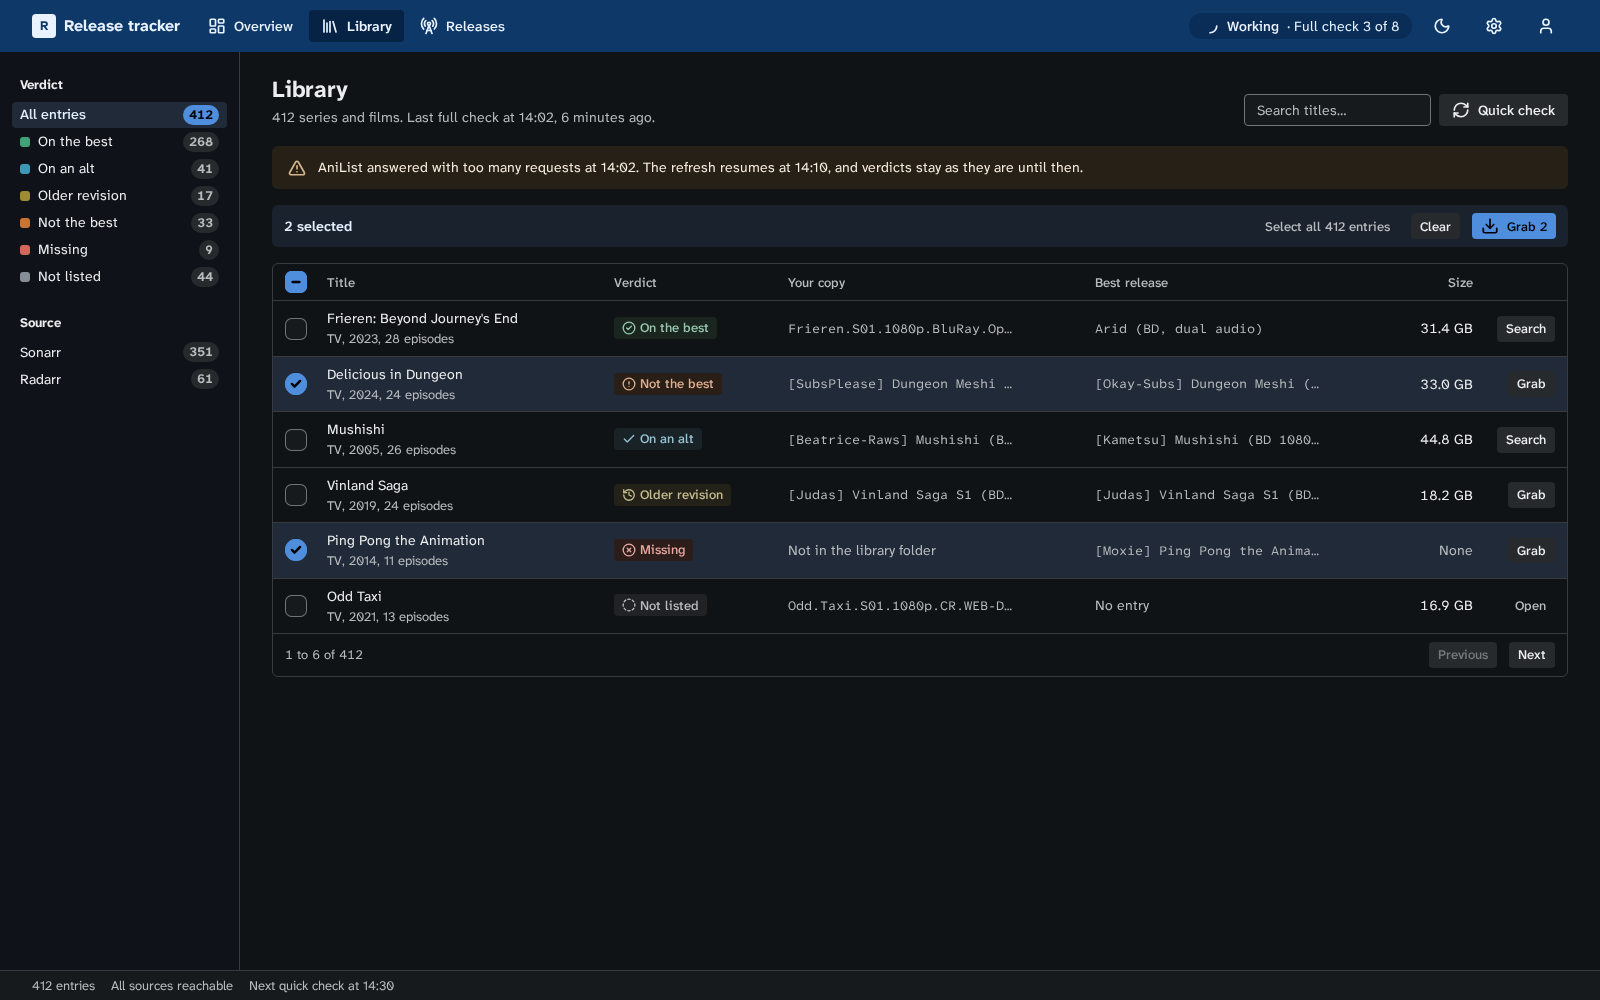
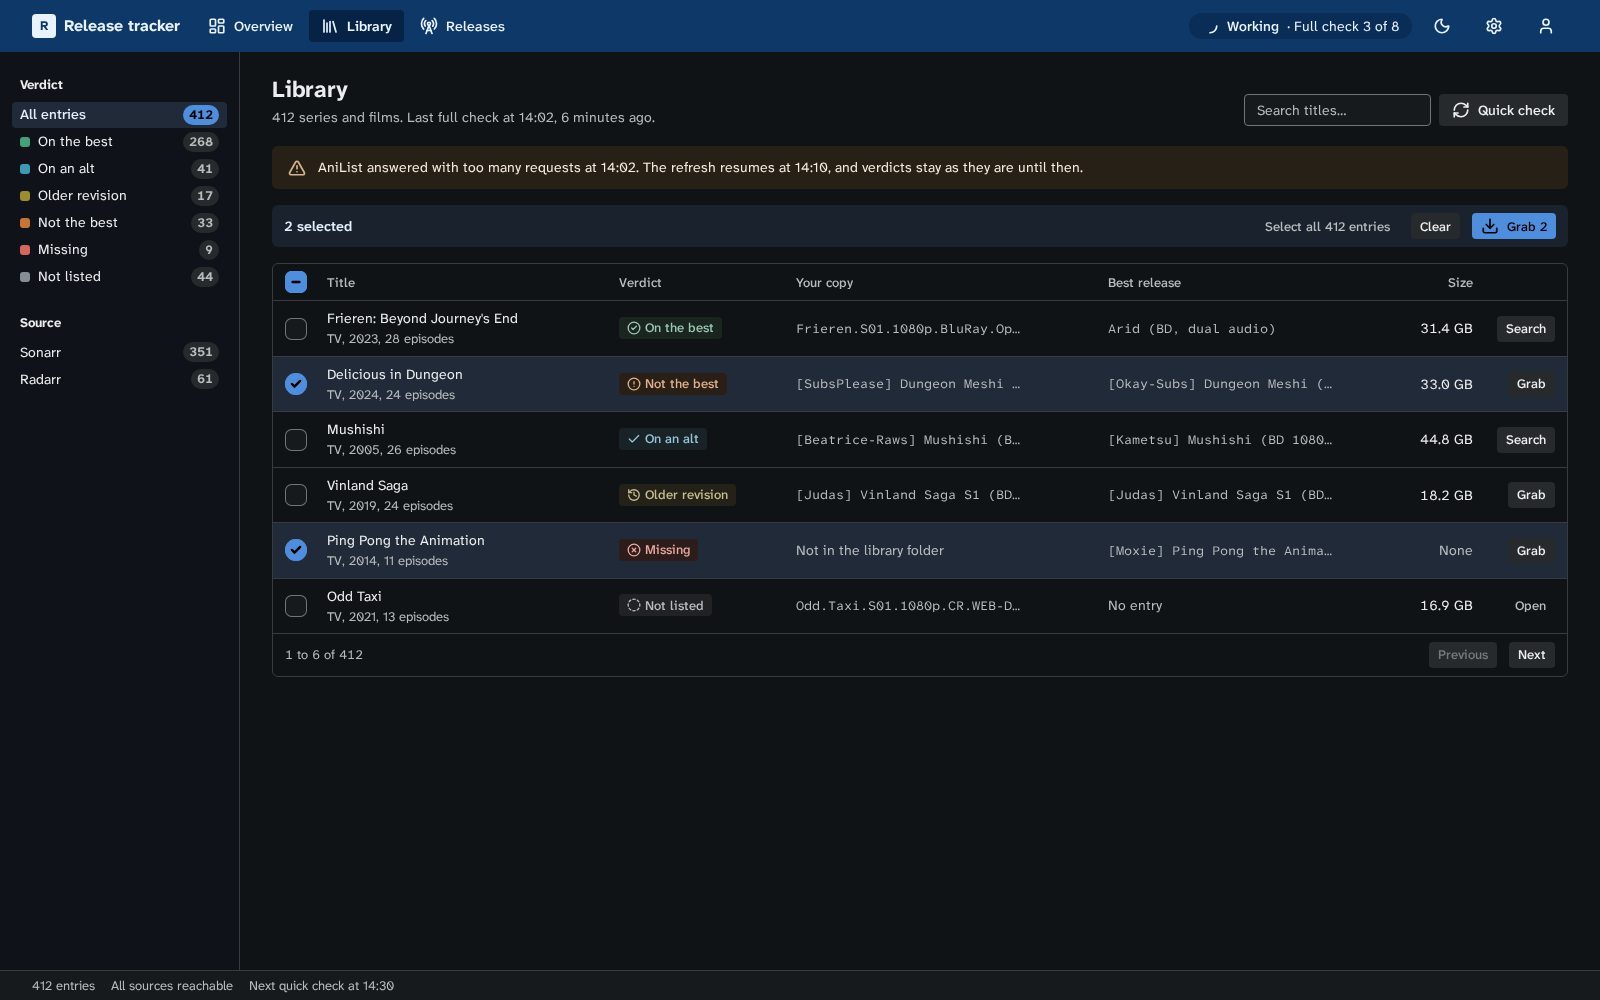
fix(table): hug number columns, centre cells and keep values whole
A number column spread over the table's leftover width, so a leading slot or rank column left a wide blank and the numbers drifted from their headers. A data-col="num" column and a ranked-bars column now take 1% like the actions column, hugging their widest cell, and the text column takes the rest. A <time> in a cell stays on one line.

A markdown table set its cells at the top, so a one-line cell sat high beside a cell of two lines, and a short value broke from its unit ("1.4" over "GB") or at a date's hyphen. Its cells now sit in the middle of the row, and the renderer marks a cell under 24 characters data-cp-line, which the prose stylesheet keeps on one line while the region scrolls.

Checked: new browser tests that a number column is no wider than its widest cell plus padding, that one-line cells centre on their row within 1px and a size and a date keep one line, in a .cp-table and in a prose table, and the render test for data-cp-line, in chromium, firefox and webkit (3930 passed); system:screens recaptured the three screens whose tables changed.

diff --git a/src/system/system-css.test.ts b/src/system/system-css.test.ts
@@ -5380,6 +5380,49 @@ describe("css/system.css data tables", () => {
     );
   });
 
+  it("hugs a number column and a bar column to their widest cell, the text column taking the rest", () => {
+    theme("light");
+    const el = build(
+      '<table class="cp-table" style="inline-size: 800px"><thead><tr><th data-col="num">Slot</th><th>Name</th><th data-bar>Sent</th><th data-col="num">Size</th></tr></thead>' +
+        '<tbody><tr><td data-col="num">1</td><td>On the best</td><td data-bar><data value="9">9</data></td><td data-col="num">33.0 GB</td></tr>' +
+        '<tr><td data-col="num">12</td><td>Missing</td><td data-bar><data value="3">3</data></td><td data-col="num">1.4 GB</td></tr></tbody></table>',
+    );
+    const head = [...el.querySelectorAll("thead th")] as HTMLElement[];
+    for (const i of [0, 2, 3]) {
+      const th = head[i] as HTMLElement;
+      const cs = getComputedStyle(th);
+      const pad = parseFloat(cs.paddingInlineStart) + parseFloat(cs.paddingInlineEnd);
+      const widest = Math.max(
+        ...[...el.querySelectorAll(`tr > :nth-child(${String(i + 1)})`)].map((c) => {
+          const words = document.createRange();
+          words.selectNodeContents(c);
+          return words.getBoundingClientRect().width;
+        }),
+      );
+      expect(th.getBoundingClientRect().width).toBeLessThanOrEqual(widest + pad + 1);
+    }
+    expect((head[1] as HTMLElement).getBoundingClientRect().width).toBeGreaterThan(500);
+  });
+
+  it("centres a one-line cell in a two-line row, and never breaks a number or a date", () => {
+    theme("light");
+    const el = build(
+      '<table class="cp-table" style="inline-size: 200px"><tbody><tr><td><div class="cp-cell-stack">Frieren<span class="cp-meta">TV, 2023</span></div></td>' +
+        '<td data-col="num">1.4 GB</td><td><time datetime="2023-10-20">2023-10-20</time></td></tr></tbody></table>',
+    );
+    const [, size, added] = [...el.querySelectorAll("td")] as HTMLElement[];
+    const row = (el.querySelector("tr") as Element).getBoundingClientRect();
+    for (const cell of [size, added]) {
+      const words = document.createRange();
+      words.selectNodeContents(cell as HTMLElement);
+      expect(new Set([...words.getClientRects()].map((r) => Math.round(r.bottom))).size).toBe(1);
+      const box = words.getBoundingClientRect();
+      expect(Math.abs(box.top + box.height / 2 - (row.top + row.height / 2))).toBeLessThanOrEqual(
+        1,
+      );
+    }
+  });
+
   it("insets a title cell's 2:3 cover 6px from its row's edges, in a cell or a row's header", () => {
     theme("light");
     root.dataset["pointer"] = "fine";

diff --git a/src/content/prose/prose.test.ts b/src/content/prose/prose.test.ts
@@ -300,6 +300,31 @@ describe(".cp-table-scroll", () => {
     expect(width(cells[1])).toBeLessThan(6 * em);
   });
 
+  it("centres a one-line cell in a row another cell makes taller, and keeps a value with its unit", async () => {
+    const md =
+      "| Release | Size | Added | Notes |\n|:--|--:|:--|:--|\n" +
+      "| Frieren S01E04 | 1.4 GB | 2023-10-20 | a note long enough to wrap onto a second line here |\n";
+    const el = prose(md, 332);
+    await frame();
+    const [release, size, added, notes] = [...el.querySelectorAll("tbody td")] as HTMLElement[];
+    const line = (c: HTMLElement | undefined) => {
+      const words = document.createRange();
+      words.selectNodeContents(c as HTMLElement);
+      return new Set([...words.getClientRects()].map((r) => Math.round(r.bottom))).size;
+    };
+    expect(line(notes)).toBeGreaterThan(1);
+    const row = (notes as HTMLElement).getBoundingClientRect();
+    for (const cell of [release, size, added]) {
+      expect(line(cell)).toBe(1);
+      const words = document.createRange();
+      words.selectNodeContents(cell as HTMLElement);
+      const box = words.getBoundingClientRect();
+      expect(Math.abs(box.top + box.height / 2 - (row.top + row.height / 2))).toBeLessThanOrEqual(
+        1,
+      );
+    }
+  });
+
   it("is as wide as a table that fits", () => {
     const el = prose("| a | b |\n| --- | --- |\n| 1 | 2 |\n", 480);
     const region = q(el, ".cp-table-scroll");

diff --git a/css/system.css b/css/system.css
@@ -5343,9 +5343,21 @@ th[aria-sort="descending"] > .cp-sort::after {
   background: var(--cp-surface-raised);
 }
 
+/* A number column, and a bar column (ranked-bars), hugs its widest cell, as
+ * the actions column does, so the text columns take the table's leftover
+ * width. A number or a date never breaks from its unit or at its hyphens. */
 .cp-table [data-col="num"] {
+  inline-size: 1%;
   text-align: end;
   font-variant-numeric: tabular-nums;
+  white-space: nowrap;
+}
+
+.cp-table [data-bar] {
+  inline-size: 1%;
+}
+
+.cp-table :is(td, th) time {
   white-space: nowrap;
 }
 
@@ -5726,7 +5738,7 @@ th[aria-sort="descending"] > .cp-sort::after {
   padding: var(--cp-space-2) var(--cp-space-3);
   border-block-end: var(--cp-line-w) solid var(--cp-line);
   text-align: start;
-  vertical-align: top;
+  vertical-align: middle;
 }
 
 .cp-prose :where(th) {
@@ -5743,6 +5755,12 @@ th[aria-sort="descending"] > .cp-sort::after {
  * wider than its box sits at its min-content, a word a line. */
 .cp-prose :where(td[data-cp-wrap]) {
   min-inline-size: 12em;
+}
+
+/* A short cell, such as a size or a date, never breaks from its unit or at
+ * its hyphens; the region scrolls instead. */
+.cp-prose :where(td[data-cp-line]) {
+  white-space: nowrap;
 }
 
 /* anywhere counts every character toward a cell's min-content, which would

diff --git a/src/content/markdown/render.test.ts b/src/content/markdown/render.test.ts
@@ -81,12 +81,13 @@ describe("the element vocabulary", () => {
     expect(el.querySelector("li")?.textContent).toBe(" done");
   });
 
-  it("marks a cell of running text data-cp-wrap and leaves short cells alone", () => {
+  it("marks a cell of running text data-cp-wrap, a short one data-cp-line, a long token neither", () => {
     const el = render(
-      "| a | b | c |\n|-|-|-|\n| x | a note long enough to wrap | a-long-token-with-no-space-in-it |",
+      "| a | b | c |\n|-|-|-|\n| 1.4 GB | a note long enough to wrap | a-long-token-with-no-space-in-it |",
     );
     const cells = [...el.querySelectorAll("td")];
     expect(cells.map((c) => c.hasAttribute("data-cp-wrap"))).toEqual([false, true, false]);
+    expect(cells.map((c) => c.hasAttribute("data-cp-line"))).toEqual([true, false, false]);
   });
 
   it("puts a table in its region, header cells in thead, alignment as data-align", () => {

diff --git a/src/content/markdown/render.ts b/src/content/markdown/render.ts
@@ -174,10 +174,14 @@ function fitMarkers(ol: Element): void {
 const PROSE_CELL = 24;
 
 /** Marks a cell of running text `data-cp-wrap`, which `.cp-prose` keeps at
- *  a readable width once the table is wider than its box and scrolls. */
+ *  a readable width once the table is wider than its box and scrolls, and a
+ *  short one, such as a size or a date, `data-cp-line`, which it keeps on
+ *  one line. */
 function markProse(cell: Element): void {
   const text = cell.textContent.trim();
-  if (text.length >= PROSE_CELL && /\s/.test(text)) {
+  if (text.length < PROSE_CELL) {
+    cell.setAttribute("data-cp-line", "");
+  } else if (/\s/.test(text)) {
     cell.setAttribute("data-cp-wrap", "");
   }
 }

diff --git a/src/content/prose/prose.css b/src/content/prose/prose.css
@@ -193,7 +193,7 @@
   padding: var(--cp-space-2) var(--cp-space-3);
   border-block-end: var(--cp-line-w) solid var(--cp-line);
   text-align: start;
-  vertical-align: top;
+  vertical-align: middle;
 }
 
 .cp-prose :where(th) {
@@ -210,6 +210,12 @@
  * wider than its box sits at its min-content, a word a line. */
 .cp-prose :where(td[data-cp-wrap]) {
   min-inline-size: 12em;
+}
+
+/* A short cell, such as a size or a date, never breaks from its unit or at
+ * its hyphens; the region scrolls instead. */
+.cp-prose :where(td[data-cp-line]) {
+  white-space: nowrap;
 }
 
 /* anywhere counts every character toward a cell's min-content, which would

diff --git a/src/data/table/table.css b/src/data/table/table.css
@@ -133,9 +133,21 @@ th[aria-sort="descending"] > .cp-sort::after {
   background: var(--cp-surface-raised);
 }
 
+/* A number column, and a bar column (ranked-bars), hugs its widest cell, as
+ * the actions column does, so the text columns take the table's leftover
+ * width. A number or a date never breaks from its unit or at its hyphens. */
 .cp-table [data-col="num"] {
+  inline-size: 1%;
   text-align: end;
   font-variant-numeric: tabular-nums;
+  white-space: nowrap;
+}
+
+.cp-table [data-bar] {
+  inline-size: 1%;
+}
+
+.cp-table :is(td, th) time {
   white-space: nowrap;
 }
 

diff --git a/docs/design-components.md b/docs/design-components.md
@@ -48,7 +48,7 @@ This page lists the classes in `@cplieger/ui/css/system`. [Design language](desi
 | `.cp-prose` | text someone else wrote, such as an agent's answer, as [markdown](content/markdown.md) renders it: paragraphs, headings at any level, lists and task boxes, blockquotes, rules, inline code that breaks anywhere in a long path, tables and code blocks, and an `a` without `href` as body text |
 | `.cp-table-scroll` | a box that scrolls a wide table inside itself, outlined, as wide as its table up to the box |
 | `[data-token]`, `.cp-syntax` | a highlighted token in the `--cp-syntax-*` colours inside `.cp`, `.cp-code`, `.cp-prose` or a `.cp-syntax` host such as a file view, as [highlight](content/highlight.md) writes it |
-| `.cp-table` | a data table, with `data-col="select"`, `"num"` or `"actions"` and `data-priority`, its `<caption>` small and muted at its start. A row's header, a `<th scope="row">` in the body, reads as one of the row's cells, a link in a cell holds its glyph beside its words, and the row a keyboard is in takes the hover fill. A body row with `data-kept` mutes every cell and its title link, as a kept list row does |
+| `.cp-table` | a data table, its cells in the middle of their row, with `data-col="select"`, `"num"` or `"actions"`, a number column and the actions hugging their widest cell on one line, and `data-priority`, its `<caption>` small and muted at its start. A row's header, a `<th scope="row">` in the body, reads as one of the row's cells, a link in a cell holds its glyph beside its words, and the row a keyboard is in takes the hover fill. A body row with `data-kept` mutes every cell and its title link, as a kept list row does |
 | `.cp-sort` | a sortable header's button inside a `<th>`, its arrow drawn on the column `aria-sort` marks and turned over for descending. [table](data/table.md) sorts |
 | `.cp-title-cell` | a title cell: a 2rem-wide `.cp-cover` beside the title and its line, 6px from the row's top and bottom edges |
 | `.cp-batchbar`, `.cp-batch-count` | the actions for the selected rows and their count, the bar sticking `--cp-sticky-top` from the top, 0 unless a sticky header above it sets its height. [table](data/table.md) runs it |

diff --git a/docs/content/markdown.md b/docs/content/markdown.md
@@ -46,7 +46,7 @@ A `headingLevel` or `maxBytes` out of range throws a `RangeError`, and a `base` 
 | paragraph, heading, blockquote, rule, line break | `p`, `h1` to `h6`, `blockquote`, `hr`, `br` |
 | emphasis, strong, strike, inline code | `em`, `strong`, `del`, `code` |
 | list, task | `ul`, or `ol` with `start`. Once its numbers reach 10, an `ol` also gets `data-cp-digits`, the digit count of its widest number, which `.cp-prose` widens the marker gutter by. A hand-written `ol` can carry it too. A task's box is a disabled `input type="checkbox"` named "Task item" |
-| table | `div.cp-table-scroll > table`, each cell's alignment in `data-align="start"`, `"center"` or `"end"`. Every body row has the header's cell count, padded with empty cells or cut. A cell of running text carries `data-cp-wrap`, which keeps it at a readable width once the table is wider than its box and scrolls |
+| table | `div.cp-table-scroll > table`, each cell's alignment in `data-align="start"`, `"center"` or `"end"`. Every body row has the header's cell count, padded with empty cells or cut. A cell of running text carries `data-cp-wrap`, which keeps it at a readable width once the table is wider than its box and scrolls, and a short cell, under 24 characters such as a size or a date, carries `data-cp-line`, which keeps it on one line. Every cell sits in the middle of its row's height |
 | link, bare URL, email | `a` |
 | image | `a`, or `img` in `"load"` mode |
 | equation | `code` with `data-math="inline"` or `"block"`, the TeX as its text |

diff --git a/docs/data/table.md b/docs/data/table.md
@@ -50,6 +50,7 @@ The parts of a `.cp-table` that need a script. `enhanceSort` runs sortable heade
 ```
 
 - A sortable header is a `<th>` holding a `<button class="cp-sort">` with the column's name. The stylesheet draws its arrow, shown on the column whose `<th>` carries `aria-sort`.
+- Each cell sits in the middle of its row's height, so a one-line cell centres beside a title and its line. A `data-col="num"` column, and a [ranked-bars](ranked-bars.md) column, hugs its widest cell as the actions column does, ends its values and header together and never breaks a value from its unit, and the text columns take the table's leftover width. A `<time>` in a cell stays on one line.
 - `.cp-title-cell` puts a `.cp-cover` beside the title and its line, 2rem wide (`--cp-cover-row-w`) and 6px (`--cp-cover-inset`) from the row's top and bottom edges, its glyph at 16px. The two lengths are the shared cover tokens a list row's cover reads too. The cover's harmony colour, glyph and `<img>` are the cover's own, as [Components](../design-components.md) describes.
 - A row's actions sit in a `.cp-toolbar`. Its worded action confirms in place with [confirm](../buttons/confirm.md), and its ⋯ buttons all open one `.cp-menu` through [menu](../overlays/menu.md).
 - While the table loads, each cell holds a `.cp-skeleton`, timed by [skeleton](../feedback/skeleton.md).
